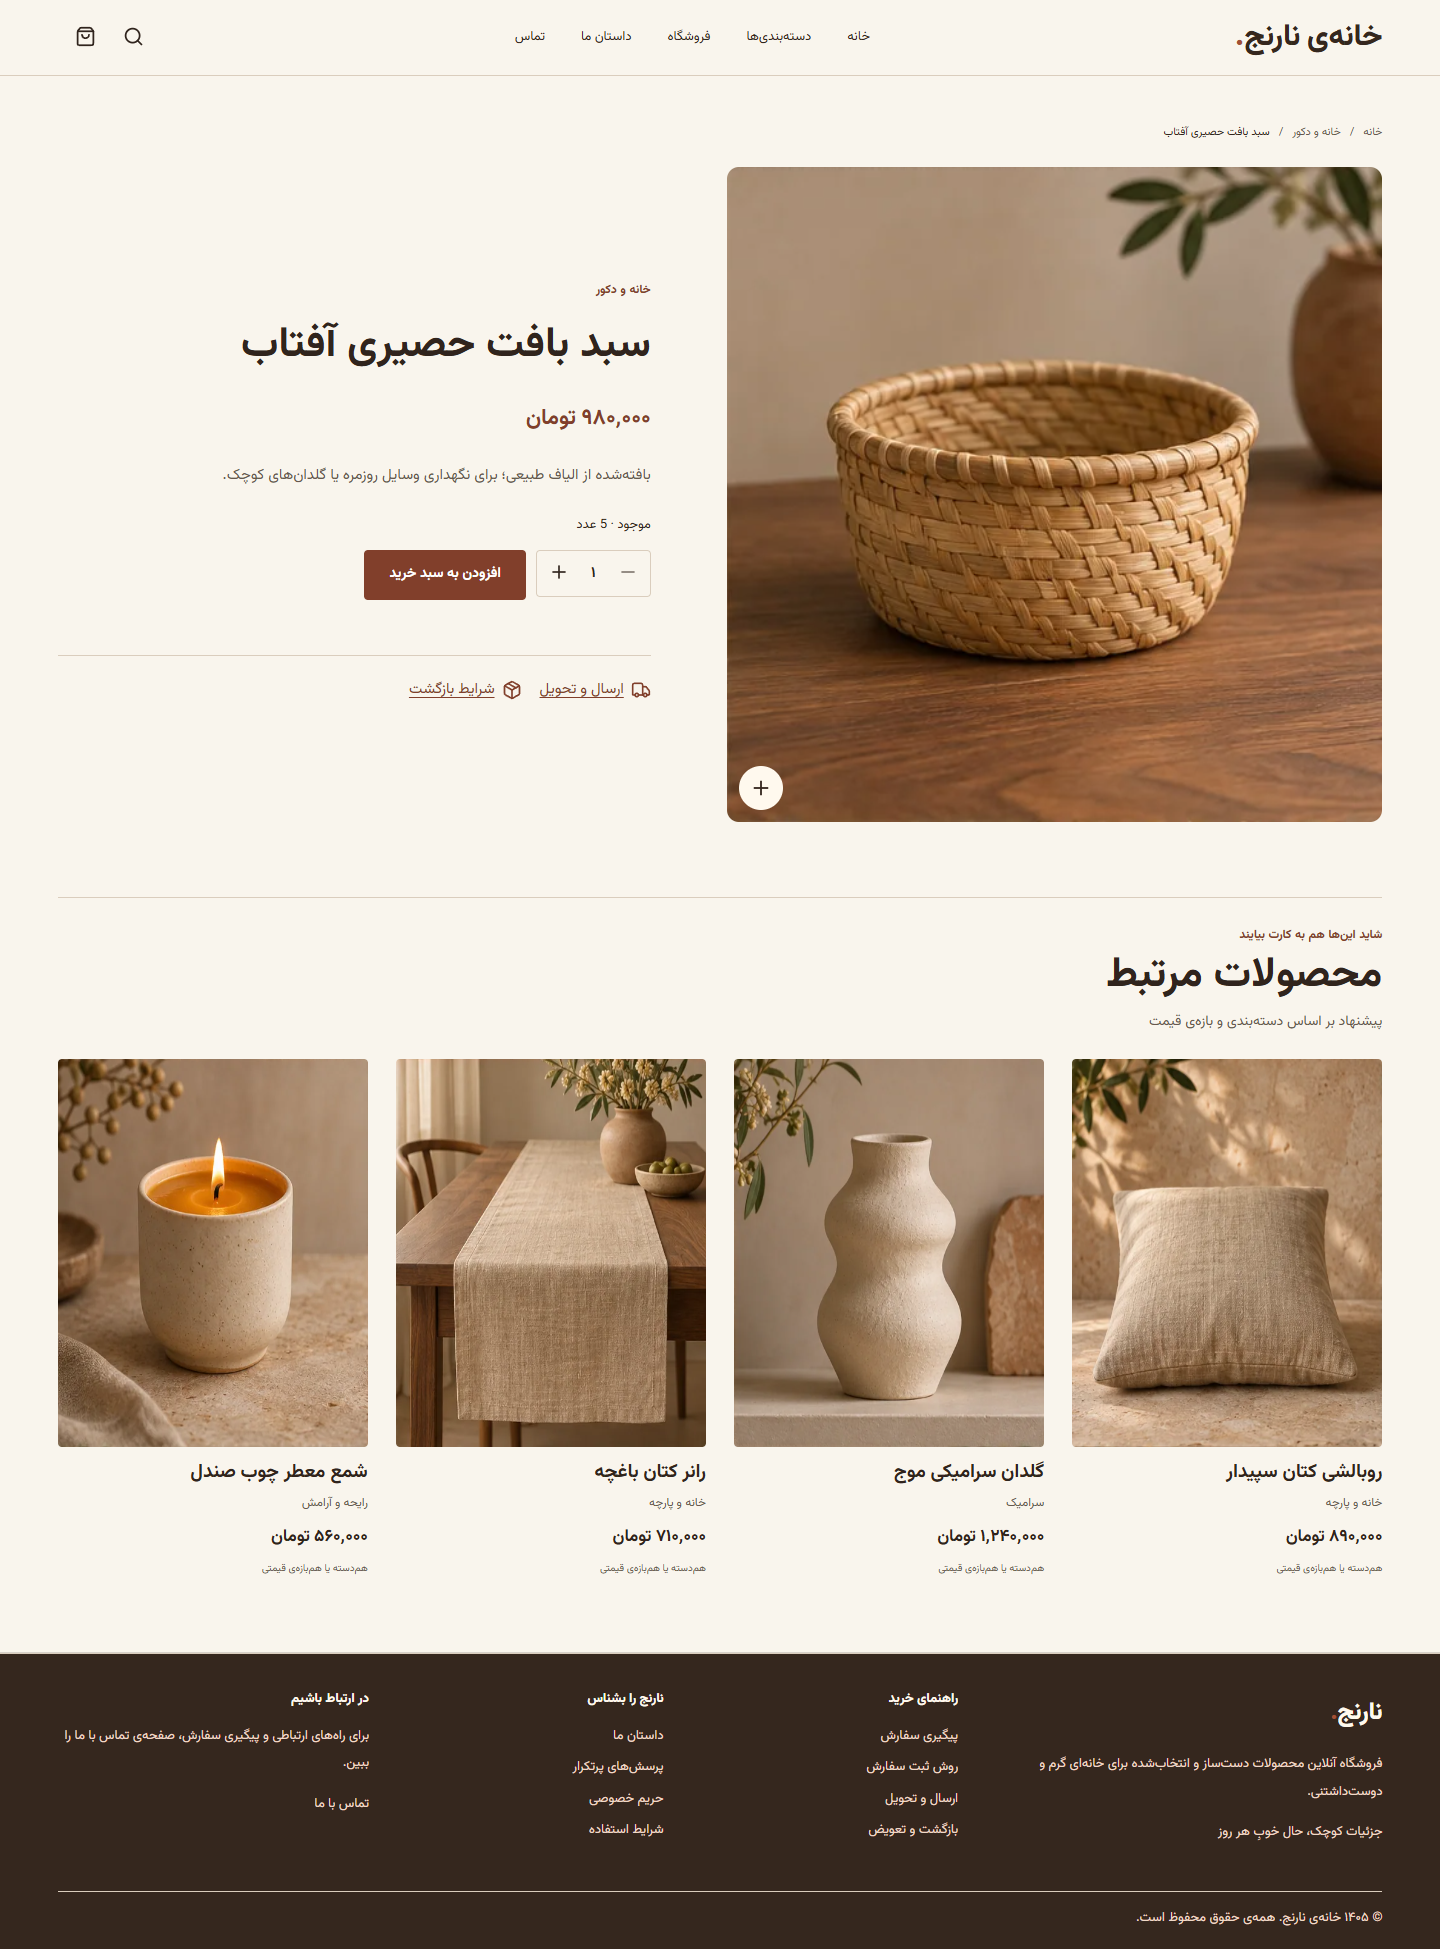
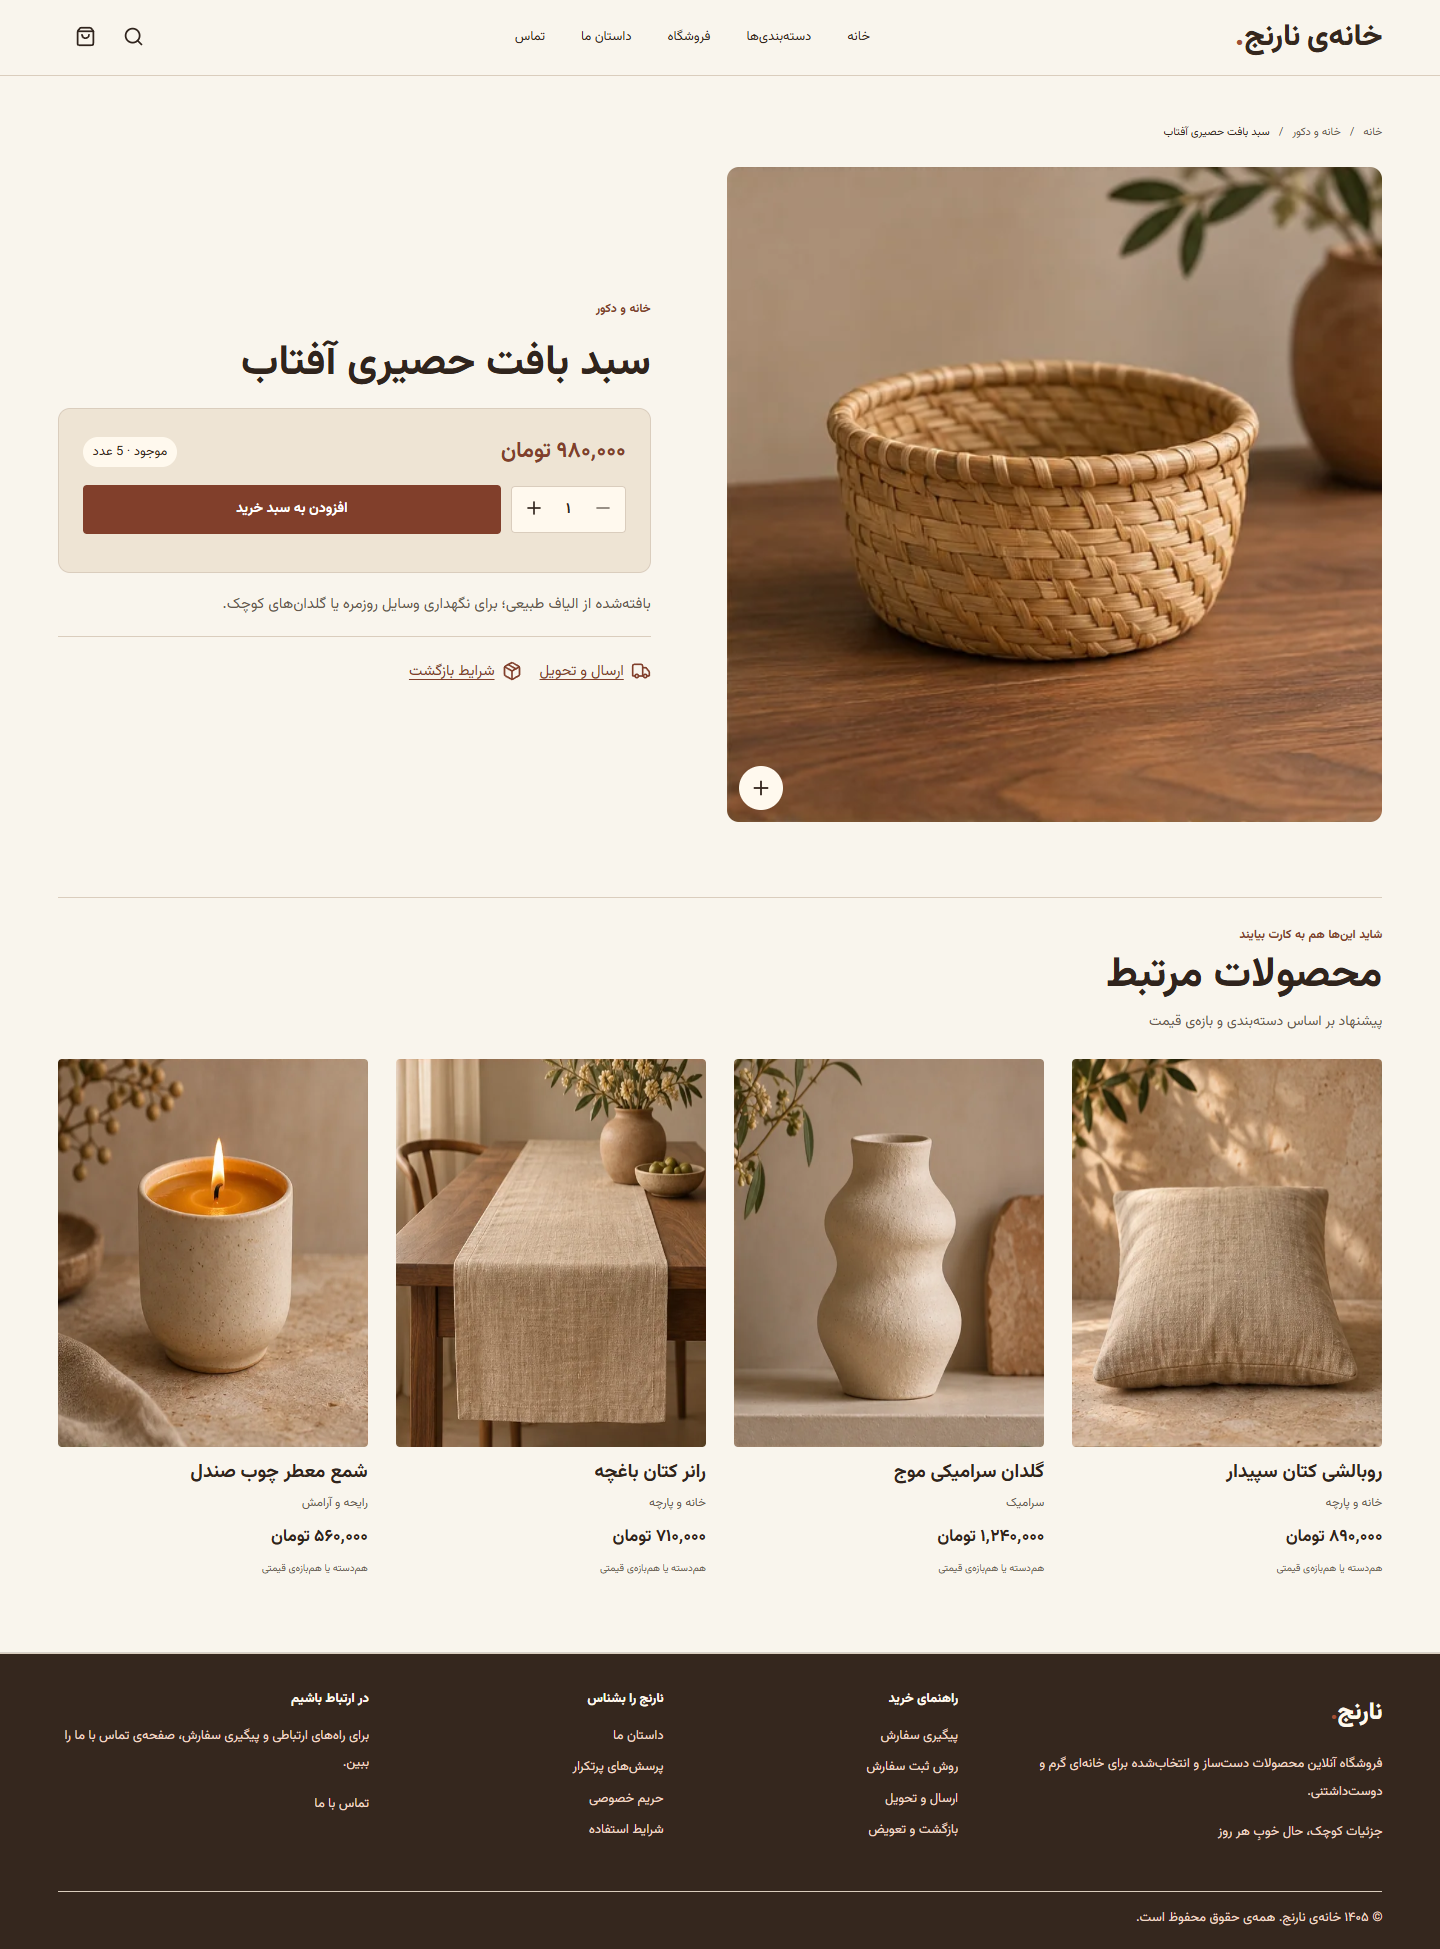
Refine product detail purchase panel

Changed region(s): [[0.0312, 0.1539, 0.4688, 0.3694]]

diff --git a/src/components/product-detail.tsx b/src/components/product-detail.tsx
@@ -26,9 +26,9 @@ export function ProductDetail({product,recommendations}:{product:Product;recomme
    if(!saveCartLines(next)){setMessage("ذخیرهی سبد خرید در این مرورگر در دسترس نیست.");return;}setCartCount(cartItemCount(next));setMessage("به سبد خرید اضافه شد.");
   }catch{setMessage("ذخیرهی سبد خرید در این مرورگر در دسترس نیست.");}
  }
- return <div className="product-detail-layout"><SiteHeader count={cartCount}/><main className="shell product-detail-page"><nav className="product-breadcrumb" aria-label="مسیر صفحه"><Link href="/">خانه</Link><span aria-hidden="true">/</span><span>{product.category}</span><span aria-hidden="true">/</span><span aria-current="page">{product.name}</span></nav><div className="product-detail"><button type="button" className={`product-detail-image${zoomed ? " is-zoomed" : ""}`} aria-pressed={zoomed} onClick={() => setZoomed(!zoomed)} aria-label={`بزرگنمایی تصویر ${product.name}`}><span className="detail-photo" role={product.image===sprite?"img":undefined} aria-label={product.image===sprite?product.name:undefined} style={product.image===sprite?{backgroundImage:`url('${sprite}')`,backgroundSize:"200% 300%",backgroundPosition:positions[product.id]||"0% 0%"}:undefined}>{product.image!==sprite&&<Image src={product.image} alt={product.name} fill unoptimized sizes="(max-width: 760px) 100vw, 50vw" style={{objectFit:"cover"}}/>}</span><span className="zoom-indicator"><UiIcon name={zoomed ? "minus" : "plus"}/></span></button><section className="product-detail-copy"><span className="eyebrow">{product.category}</span><h1>{product.name}</h1><p className="product-detail-price">{formatPrice(product.price)} {storeConfig.currency} {product.oldPrice && <del className="old-price">{formatPrice(product.oldPrice)}</del>}</p><p className="product-detail-description">{product.description}</p><p className={product.stock>0&&product.stock<=3?"stock-low":"stock-state"}>{product.stock===0?"در حال حاضر ناموجود":product.stock<=3?`فقط ${product.stock} عدد باقی مانده`:`موجود · ${product.stock} عدد`}</p>{product.stock>0 && <div className="detail-quantity" role="group" aria-label="تعداد محصول">
+ return <div className="product-detail-layout"><SiteHeader count={cartCount}/><main className="shell product-detail-page"><nav className="product-breadcrumb" aria-label="مسیر صفحه"><Link href="/">خانه</Link><span aria-hidden="true">/</span><span>{product.category}</span><span aria-hidden="true">/</span><span aria-current="page">{product.name}</span></nav><div className="product-detail"><button type="button" className={`product-detail-image${zoomed ? " is-zoomed" : ""}`} aria-pressed={zoomed} onClick={() => setZoomed(!zoomed)} aria-label={`بزرگنمایی تصویر ${product.name}`}><span className="detail-photo" role={product.image===sprite?"img":undefined} aria-label={product.image===sprite?product.name:undefined} style={product.image===sprite?{backgroundImage:`url('${sprite}')`,backgroundSize:"200% 300%",backgroundPosition:positions[product.id]||"0% 0%"}:undefined}>{product.image!==sprite&&<Image src={product.image} alt={product.name} fill unoptimized sizes="(max-width: 760px) 100vw, 50vw" style={{objectFit:"cover"}}/>}</span><span className="zoom-indicator"><UiIcon name={zoomed ? "minus" : "plus"}/></span></button><section className="product-detail-copy"><span className="eyebrow">{product.category}</span><h1>{product.name}</h1><div className="detail-purchase"><div className="detail-purchase-heading"><p className="product-detail-price">{formatPrice(product.price)} {storeConfig.currency} {product.oldPrice && <del className="old-price">{formatPrice(product.oldPrice)}</del>}</p><p className={product.stock>0&&product.stock<=3?"stock-low":"stock-state"}>{product.stock===0?"در حال حاضر ناموجود":product.stock<=3?`فقط ${product.stock} عدد باقی مانده`:`موجود · ${product.stock} عدد`}</p></div><div className="detail-purchase-actions">{product.stock>0 && <div className="detail-quantity" role="group" aria-label="تعداد محصول">
    <button type="button" className="icon-button" disabled={quantity<=1} aria-label="کم کردن تعداد" onClick={() => setQuantity(value => Math.max(1,value-1))}><UiIcon name="minus"/></button>
    <output aria-live="polite">{quantity.toLocaleString("fa-IR")}</output>
    <button type="button" className="icon-button" disabled={quantity>=product.stock} aria-label="زیاد کردن تعداد" onClick={() => setQuantity(value => Math.min(product.stock,value+1))}><UiIcon name="plus"/></button>
- </div>}<button className="primary-button" disabled={product.stock<1} onClick={addToCart}>{product.stock<1?"ناموجود":"افزودن به سبد خرید"}</button><p aria-live="polite" className="cart-feedback">{message}</p><div className="detail-policies"><Link href="/shipping"><UiIcon name="truck"/> ارسال و تحویل</Link><Link href="/returns"><UiIcon name="package"/> شرایط بازگشت</Link></div></section></div><aside className="mobile-purchase-bar" aria-label="خرید این محصول"><div><strong>{product.name}</strong><span>{formatPrice(product.price)} {storeConfig.currency}</span></div><button className="primary-button" disabled={product.stock<1} onClick={addToCart}>{product.stock<1?"ناموجود":"افزودن به سبد"}<UiIcon name="plus"/></button></aside><section className="related-products" aria-labelledby="related-heading"><div className="section-heading"><div><span className="eyebrow">شاید اینها هم به کارت بیایند</span><h2 id="related-heading">محصولات مرتبط</h2><p>{recommendations.some(item=>item.purchaseBased)?"ترکیبی از خریدهای تکمیلشده و شباهت محصول":"پیشنهاد بر اساس دستهبندی و بازهی قیمت"}</p></div></div>{recommendations.length?<div className="product-grid">{recommendations.map(({product:item,purchaseBased})=><article key={item.id} className="product-card"><Link href={`/product/${encodeURIComponent(item.id)}`} className="related-image-link" aria-label={`جزئیات ${item.name}`}><div className="product-image" style={item.image===sprite?{backgroundImage:`url('${sprite}')`,backgroundSize:"200% 300%",backgroundPosition:positions[item.id]||"0% 0%"}:undefined}>{item.image!==sprite&&<Image src={item.image} alt={item.name} fill unoptimized sizes="(max-width: 560px) 45vw, 25vw" style={{objectFit:"cover"}}/>}</div></Link><Link href={`/product/${encodeURIComponent(item.id)}`} className="related-product-title">{item.name}</Link><div className="product-category">{item.category}</div><div className="product-price">{formatPrice(item.price)} {storeConfig.currency}</div><small className="recommendation-reason">{purchaseBased?"همراه در سفارشهای تحویلشده":"همدسته یا همبازهی قیمتی"}</small></article>)}</div>:<p className="empty-state">فعلاً محصول مرتبط دیگری موجود نیست.</p>}</section></main><SiteFooter/></div>;
+ </div>}<button className="primary-button" disabled={product.stock<1} onClick={addToCart}>{product.stock<1?"ناموجود":"افزودن به سبد خرید"}</button></div><p aria-live="polite" className="cart-feedback">{message}</p></div><p className="product-detail-description">{product.description}</p><div className="detail-policies"><Link href="/shipping"><UiIcon name="truck"/> ارسال و تحویل</Link><Link href="/returns"><UiIcon name="package"/> شرایط بازگشت</Link></div></section></div><aside className="mobile-purchase-bar" aria-label="خرید این محصول"><div><strong>{product.name}</strong><span>{formatPrice(product.price)} {storeConfig.currency}</span></div><button className="primary-button" disabled={product.stock<1} onClick={addToCart}>{product.stock<1?"ناموجود":"افزودن به سبد"}<UiIcon name="plus"/></button></aside><section className="related-products" aria-labelledby="related-heading"><div className="section-heading"><div><span className="eyebrow">شاید اینها هم به کارت بیایند</span><h2 id="related-heading">محصولات مرتبط</h2><p>{recommendations.some(item=>item.purchaseBased)?"ترکیبی از خریدهای تکمیلشده و شباهت محصول":"پیشنهاد بر اساس دستهبندی و بازهی قیمت"}</p></div></div>{recommendations.length?<div className="product-grid">{recommendations.map(({product:item,purchaseBased})=><article key={item.id} className="product-card"><Link href={`/product/${encodeURIComponent(item.id)}`} className="related-image-link" aria-label={`جزئیات ${item.name}`}><div className="product-image" style={item.image===sprite?{backgroundImage:`url('${sprite}')`,backgroundSize:"200% 300%",backgroundPosition:positions[item.id]||"0% 0%"}:undefined}>{item.image!==sprite&&<Image src={item.image} alt={item.name} fill unoptimized sizes="(max-width: 560px) 45vw, 25vw" style={{objectFit:"cover"}}/>}</div></Link><Link href={`/product/${encodeURIComponent(item.id)}`} className="related-product-title">{item.name}</Link><div className="product-category">{item.category}</div><div className="product-price">{formatPrice(item.price)} {storeConfig.currency}</div><small className="recommendation-reason">{purchaseBased?"همراه در سفارشهای تحویلشده":"همدسته یا همبازهی قیمتی"}</small></article>)}</div>:<p className="empty-state">فعلاً محصول مرتبط دیگری موجود نیست.</p>}</section></main><SiteFooter/></div>;
 }

diff --git a/src/app/globals.css b/src/app/globals.css
@@ -299,3 +299,31 @@ button:disabled { opacity: .6; cursor: not-allowed; }
   #home .category-card { padding: 7px; }
   #home .category-card > span { padding-inline: 8px; }
 }
+
+.detail-purchase {
+  display: grid;
+  gap: 14px;
+  padding: clamp(14px, 3vw, 24px);
+  border: 1px solid var(--line);
+  border-radius: 12px;
+  background: var(--surface);
+}
+.detail-purchase-heading, .detail-purchase-actions {
+  display: flex;
+  flex-wrap: wrap;
+  align-items: center;
+  gap: 10px;
+}
+.detail-purchase-heading { justify-content: space-between; }
+.detail-purchase-heading :is(.product-detail-price, .stock-state, .stock-low) { margin: 0; }
+.detail-purchase-heading :is(.stock-state, .stock-low) {
+  background: var(--cream);
+  border-radius: 999px;
+  padding: 4px 10px;
+  color: var(--espresso);
+}
+.detail-purchase-heading .stock-low { color: var(--green); }
+.detail-purchase-actions .detail-quantity { margin: 0; background: var(--cream); }
+.detail-purchase-actions .primary-button { flex: 1 1 auto; justify-content: center; }
+.detail-purchase .cart-feedback { margin: 0; }
+.detail-purchase .cart-feedback:empty { min-height: 0; }
